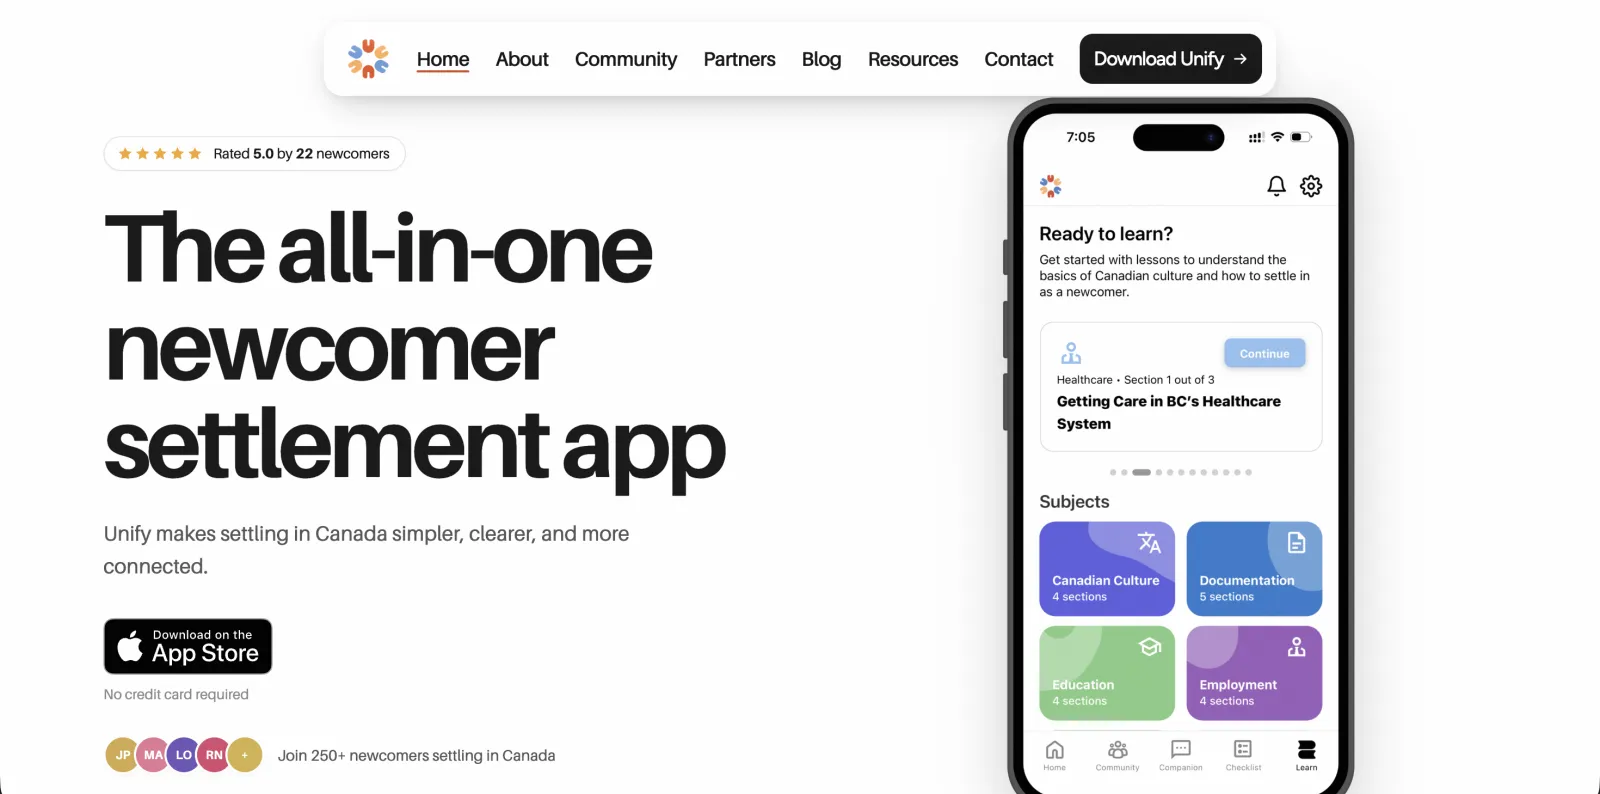
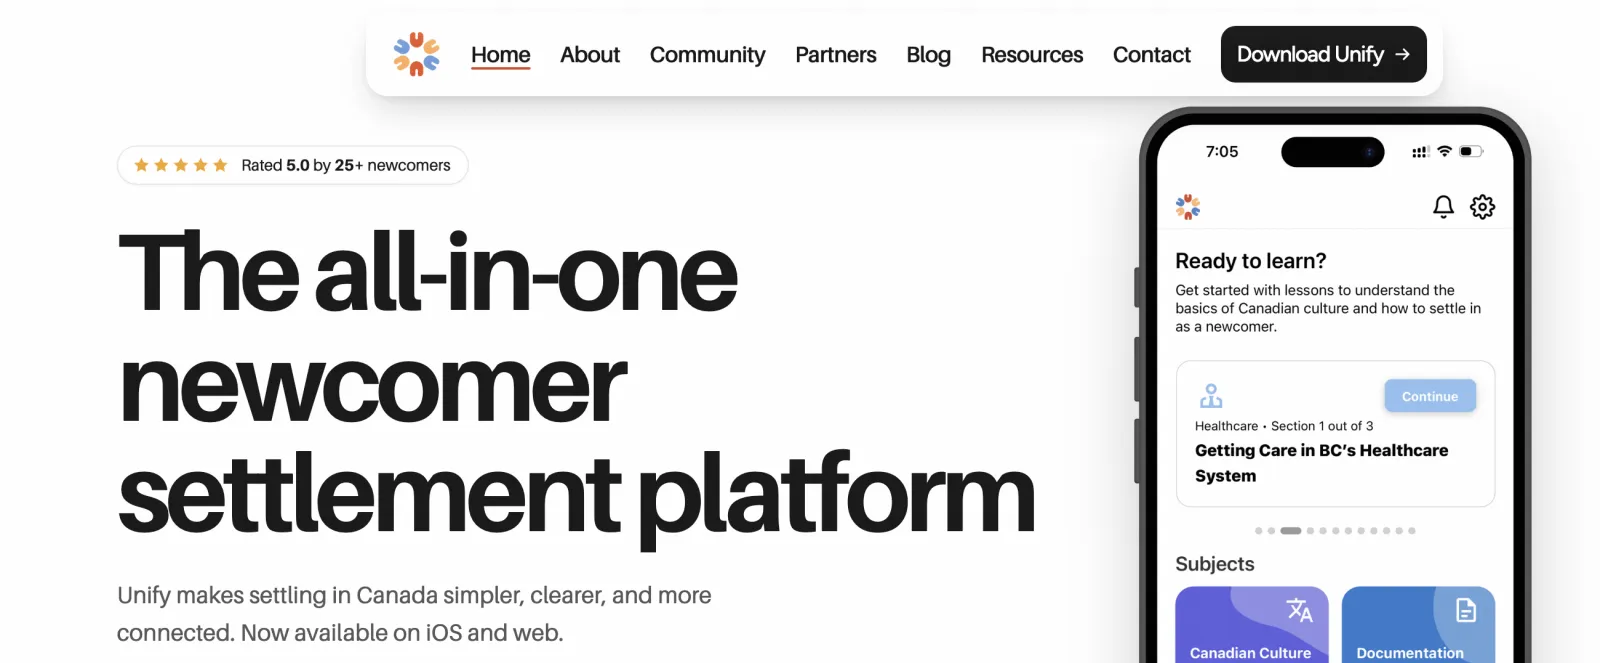
Swap Unify landing thumbnail for current hero
Replace the older hero capture with the current site: the headline now
reads "settlement platform" and the CTAs are Launch web app / App Store.
Cropped to 2.42:1 (1600x663, 45K) so the card box trims nothing, and the
nav, headline and phone mock all stay intact.

diff --git a/index.html b/index.html
@@ -297,7 +297,7 @@
       </article>
 
       <article class="card">
-        <img class="card-image" src="unify-landing.webp" alt="Unify Social Landing Page screenshot" width="1600" height="794" loading="lazy" decoding="async" />
+        <img class="card-image" src="unify-landing.webp" alt="Unify Social landing page screenshot" width="1600" height="663" loading="lazy" decoding="async" />
         <div class="card-header">
           <h3>Unify Social — Landing Page</h3>
         </div>
